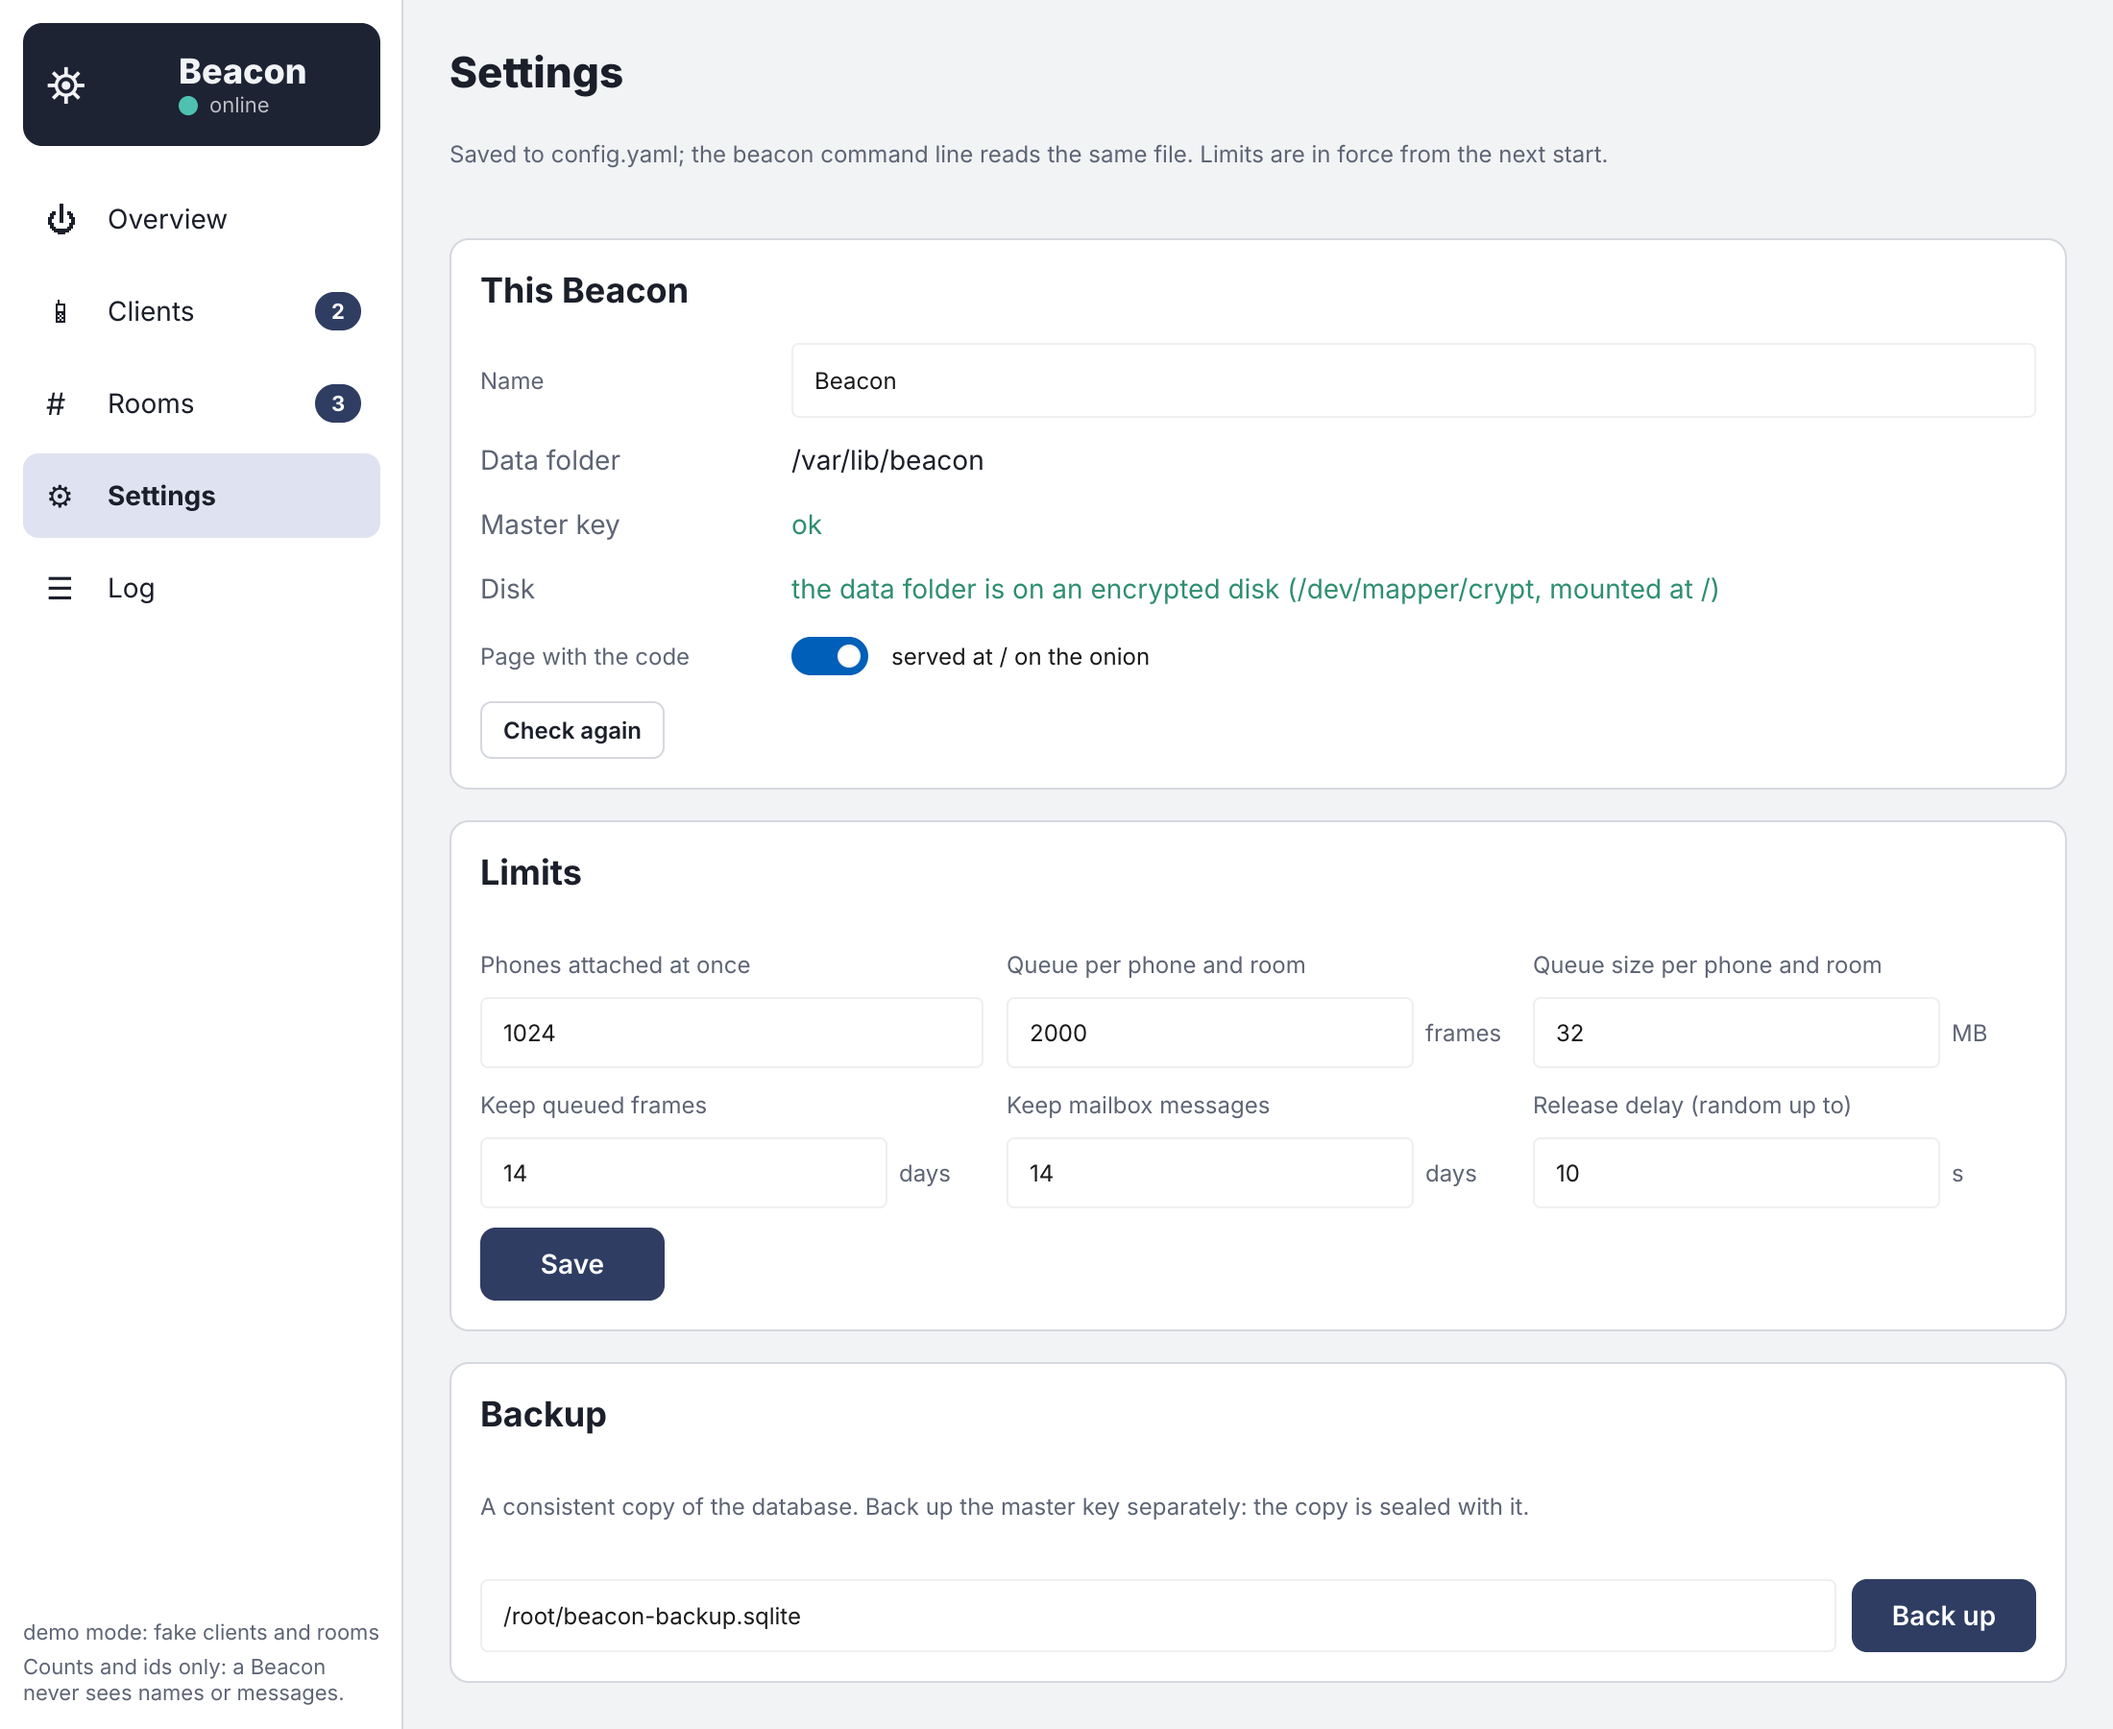
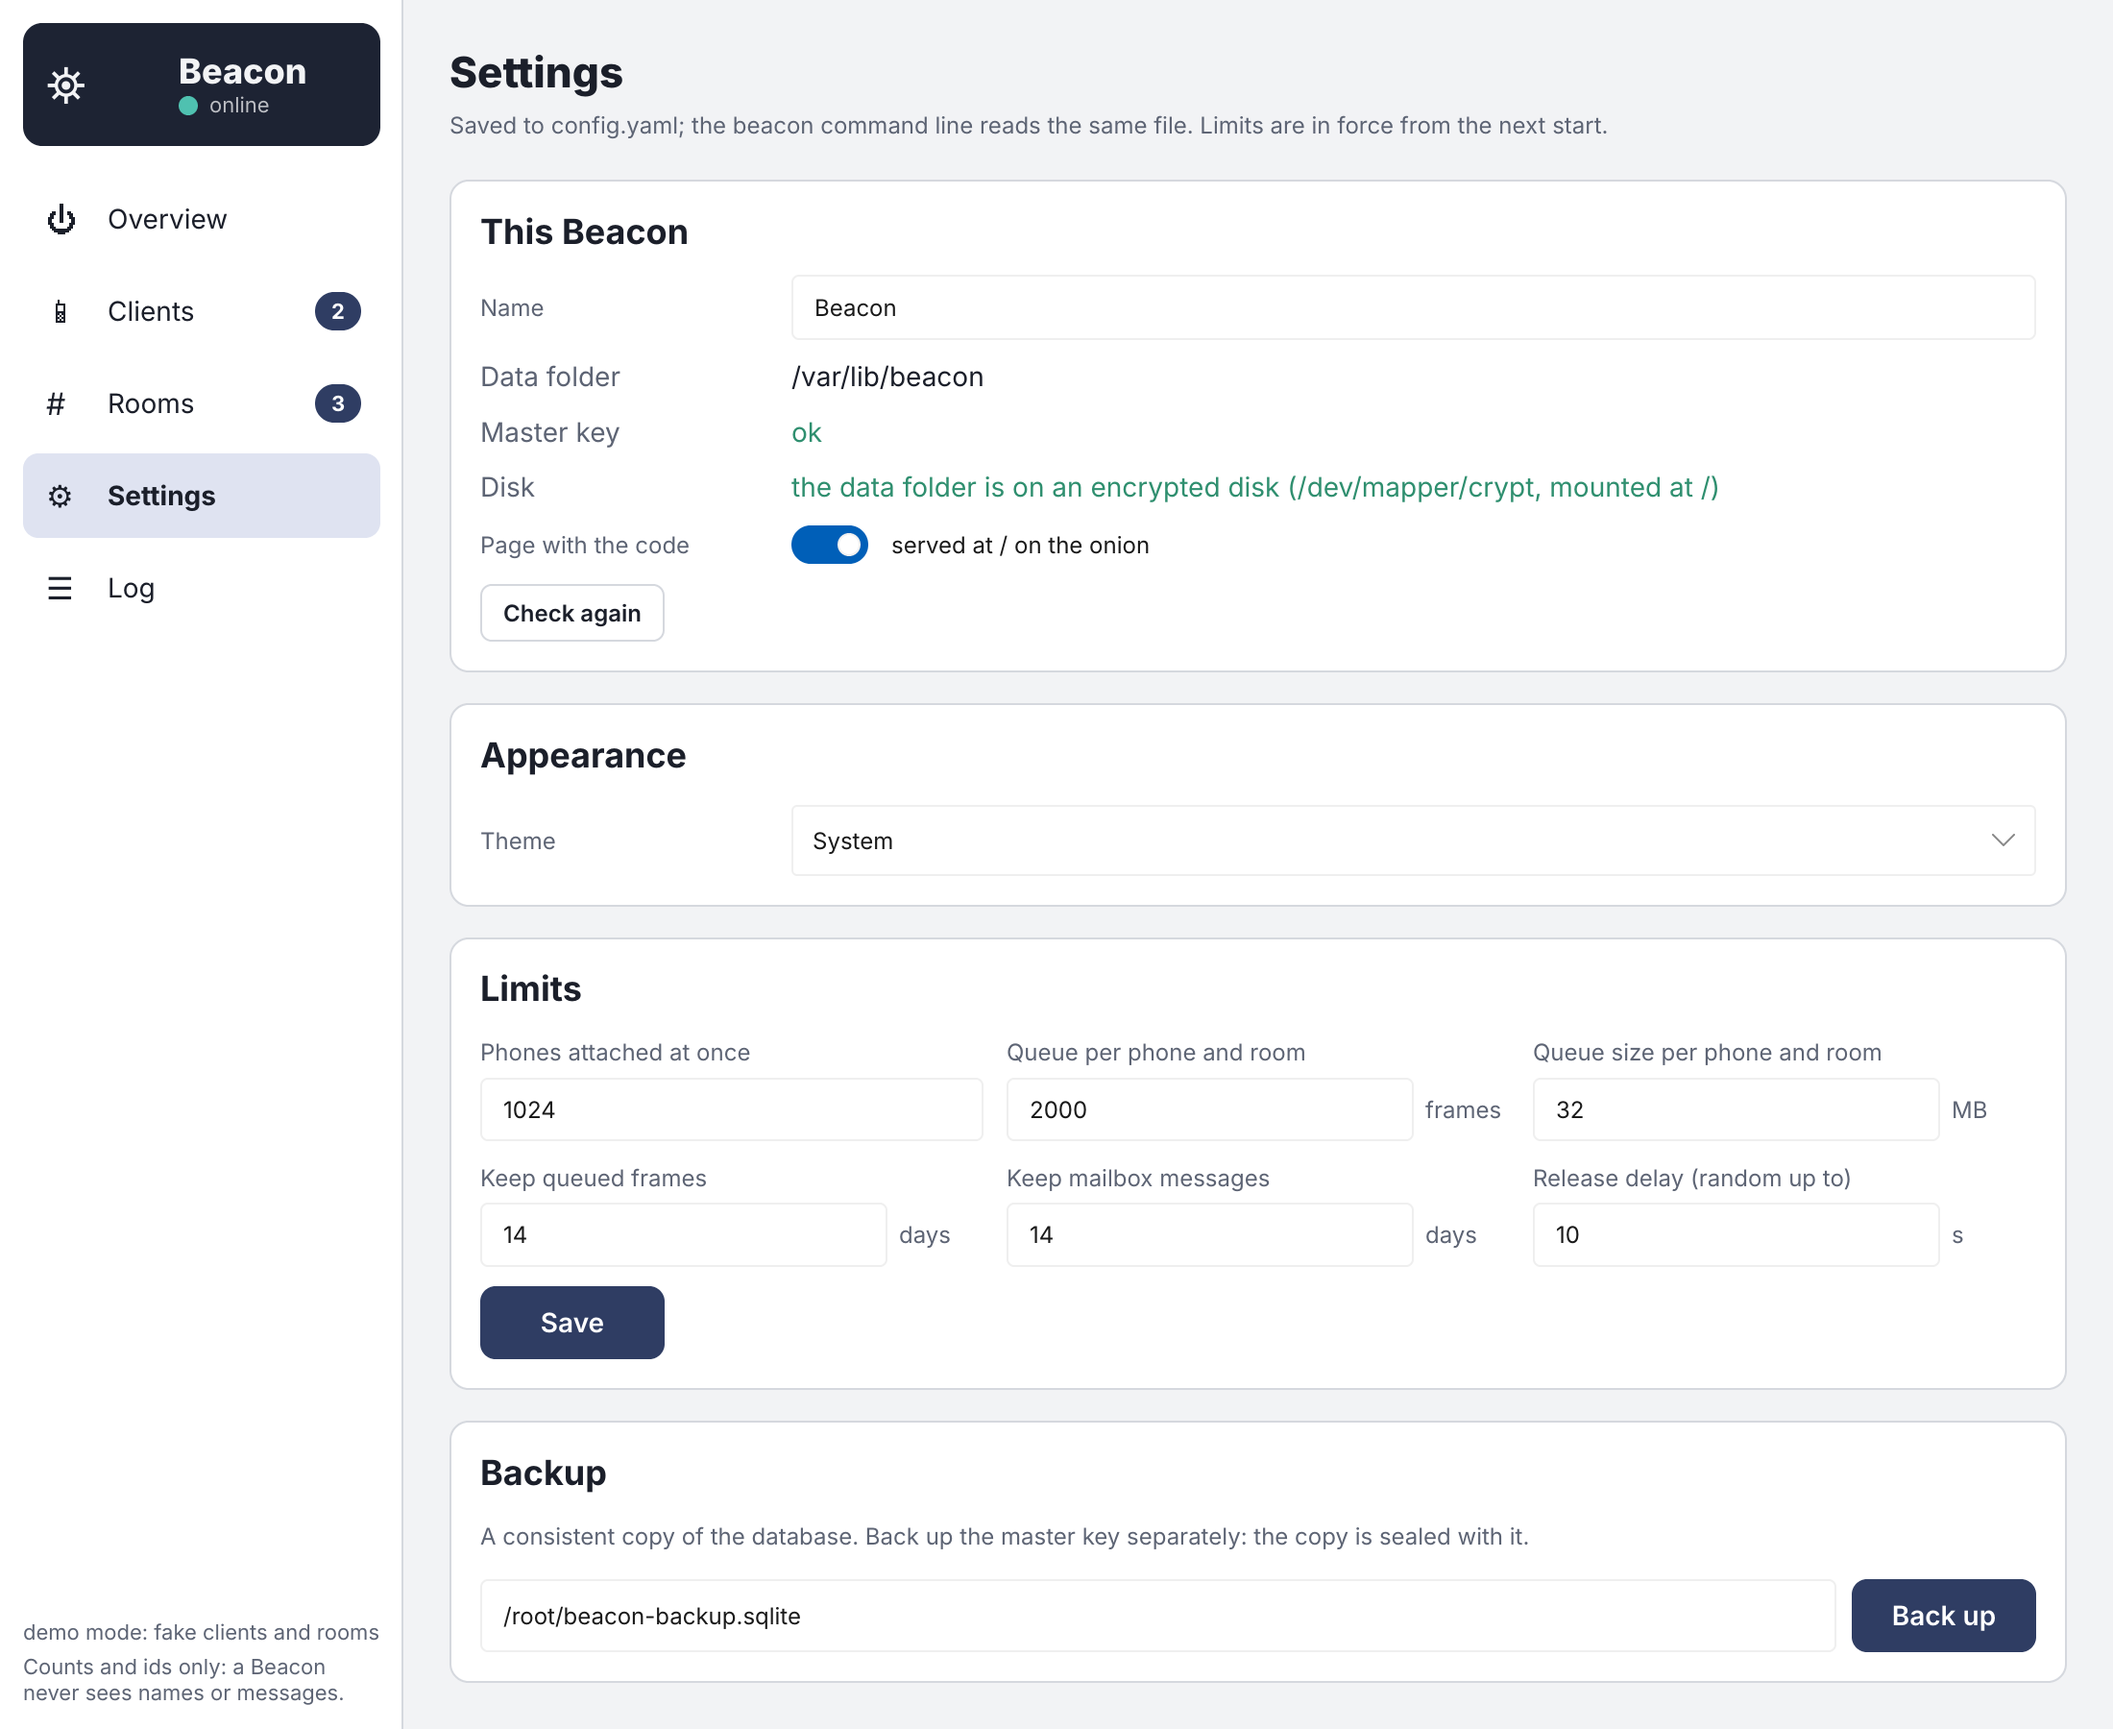
enigma-beacon: theme choice (System / Light / Dark) in Settings → Appearance
Claude-Session: https://claude.ai/code/session_01JpTMNsLnv91PtqNyqkWDSL

diff --git a/apps/enigma-beacon/src/lib.rs b/apps/enigma-beacon/src/lib.rs
@@ -237,6 +237,18 @@ pub fn build(m: Model) -> Result<(AppWindow, Rc<RefCell<Model>>), slint::Platfor
             refresh(&ui, &snap);
         });
     }
+    {
+        let w = ui.as_weak();
+        ui.on_set_theme(move |choice| {
+            let Some(ui) = w.upgrade() else { return };
+            apply_theme(&ui, choice);
+            if let Err(e) = save_theme(choice) {
+                settings_result(&ui, Err(e));
+            }
+        });
+    }
+    ui.set_theme_choice(load_theme());
+    apply_theme(&ui, ui.get_theme_choice());
     ui.on_save_settings(wire(Box::new(|ui, m| {
         let r = (|| {
             m.set_name(&ui.get_name())?;
@@ -292,4 +304,67 @@ pub fn run_built(ui: AppWindow, m: Rc<RefCell<Model>>) -> Result<(), slint::Plat
     ui.run()?;
     m.borrow_mut().stop();
     Ok(())
+}
+
+// ── theme (a viewer preference, not part of Beacon's config.yaml) ─────────────
+
+/// Where the chosen theme is kept: `$XDG_CONFIG_HOME/enigma-beacon/theme`
+/// (or `~/.config/enigma-beacon/theme`). One word: system, light or dark.
+fn theme_file() -> Option<std::path::PathBuf> {
+    let base = std::env::var_os("XDG_CONFIG_HOME")
+        .map(std::path::PathBuf::from)
+        .or_else(|| std::env::var_os("HOME").map(|h| std::path::Path::new(&h).join(".config")))?;
+    Some(base.join("enigma-beacon").join("theme"))
+}
+
+/// 0 system, 1 light, 2 dark.
+pub(crate) fn theme_from_word(w: &str) -> i32 {
+    match w.trim() {
+        "light" => 1,
+        "dark" => 2,
+        _ => 0,
+    }
+}
+
+pub(crate) fn theme_word(choice: i32) -> &'static str {
+    match choice {
+        1 => "light",
+        2 => "dark",
+        _ => "system",
+    }
+}
+
+fn load_theme() -> i32 {
+    theme_file().and_then(|p| std::fs::read_to_string(p).ok()).map(|s| theme_from_word(&s)).unwrap_or(0)
+}
+
+fn save_theme(choice: i32) -> anyhow::Result<()> {
+    let p = theme_file().ok_or_else(|| anyhow::anyhow!("no home folder to save the theme in"))?;
+    if let Some(dir) = p.parent() {
+        std::fs::create_dir_all(dir)?;
+    }
+    std::fs::write(&p, format!("{}\n", theme_word(choice)))?;
+    Ok(())
+}
+
+fn apply_theme(ui: &AppWindow, choice: i32) {
+    match choice {
+        1 => ui.invoke_set_dark(false),
+        2 => ui.invoke_set_dark(true),
+        _ => ui.invoke_set_system_theme(),
+    }
+}
+
+#[cfg(test)]
+mod theme_tests {
+    use super::*;
+
+    #[test]
+    fn theme_words_round_trip_and_default_to_system() {
+        for c in 0..3 {
+            assert_eq!(theme_from_word(theme_word(c)), c);
+        }
+        assert_eq!(theme_from_word("purple"), 0);
+        assert_eq!(theme_from_word("dark\n"), 2);
+    }
 }

diff --git a/apps/enigma-beacon/src/main.rs b/apps/enigma-beacon/src/main.rs
@@ -64,7 +64,9 @@ fn main() -> std::process::ExitCode {
     let dark = args.iter().any(|a| a == "--dark").then_some(true).or(args.iter().any(|a| a == "--light").then_some(false));
     let r = (|| {
         let (ui, m) = enigma_beacon::build(m)?;
+        // --dark / --light win over the saved choice, for this run only.
         if let Some(d) = dark {
+            ui.set_theme_choice(if d { 2 } else { 1 });
             ui.invoke_set_dark(d);
         }
         enigma_beacon::run_built(ui, m)
